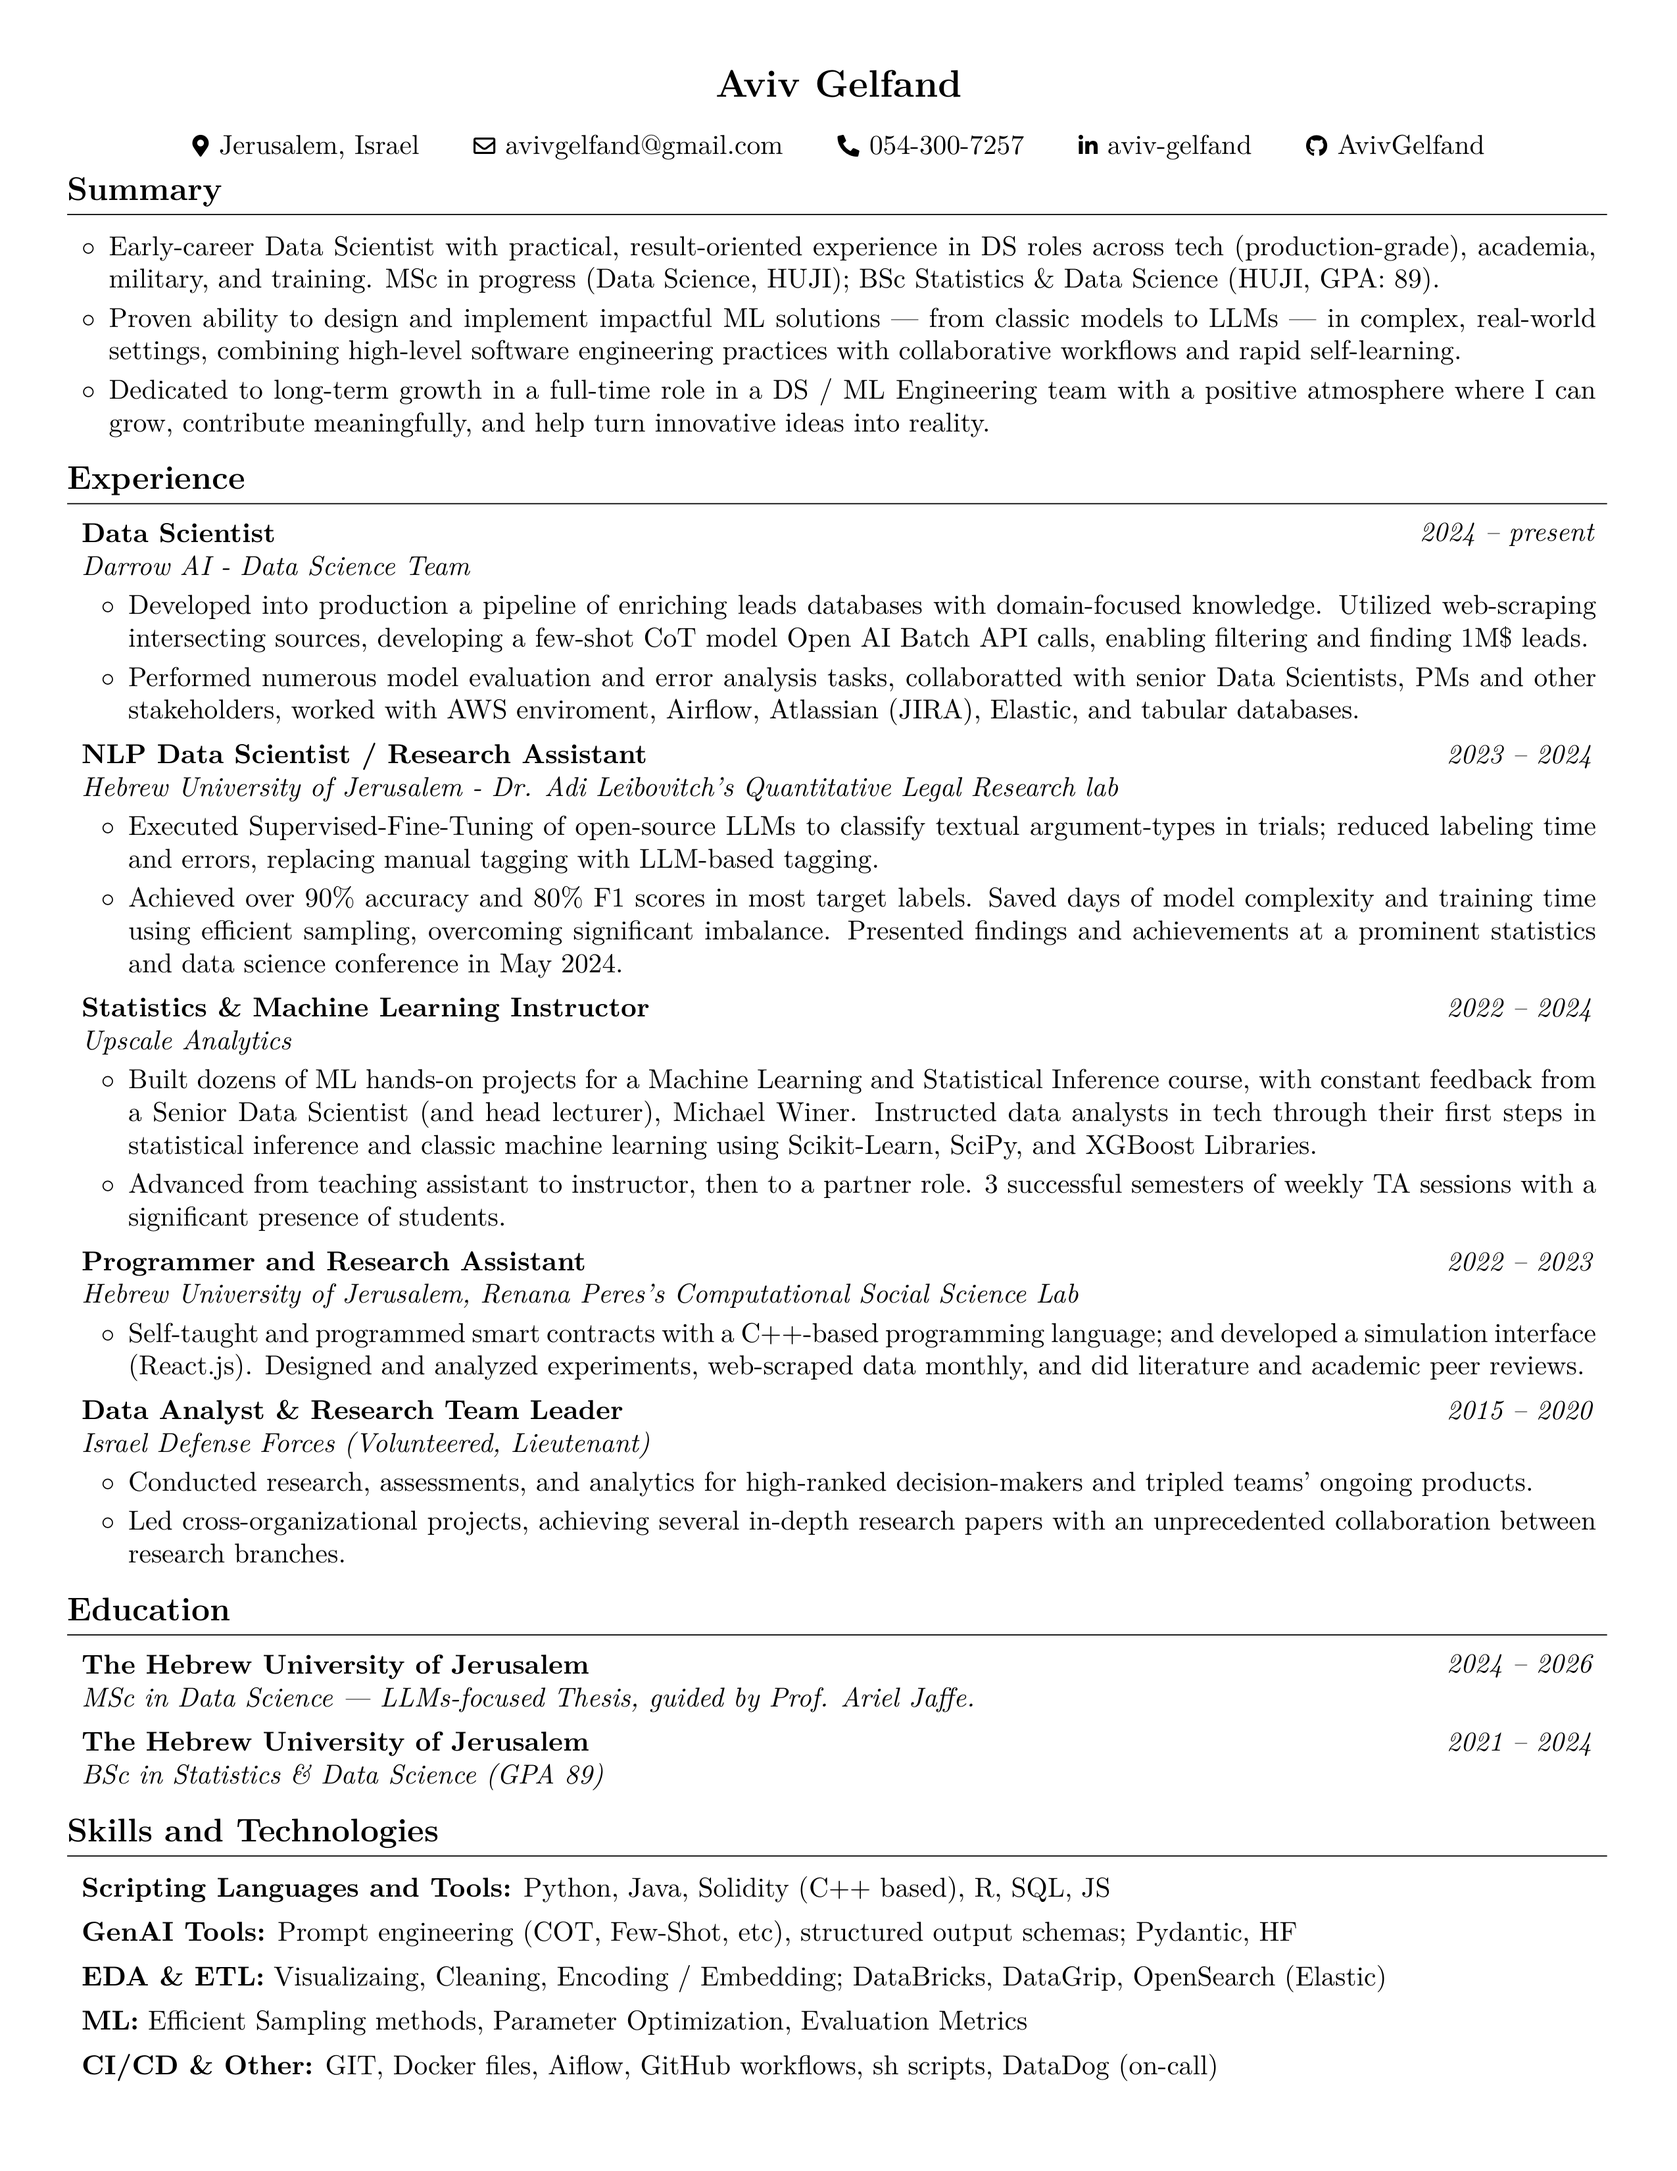
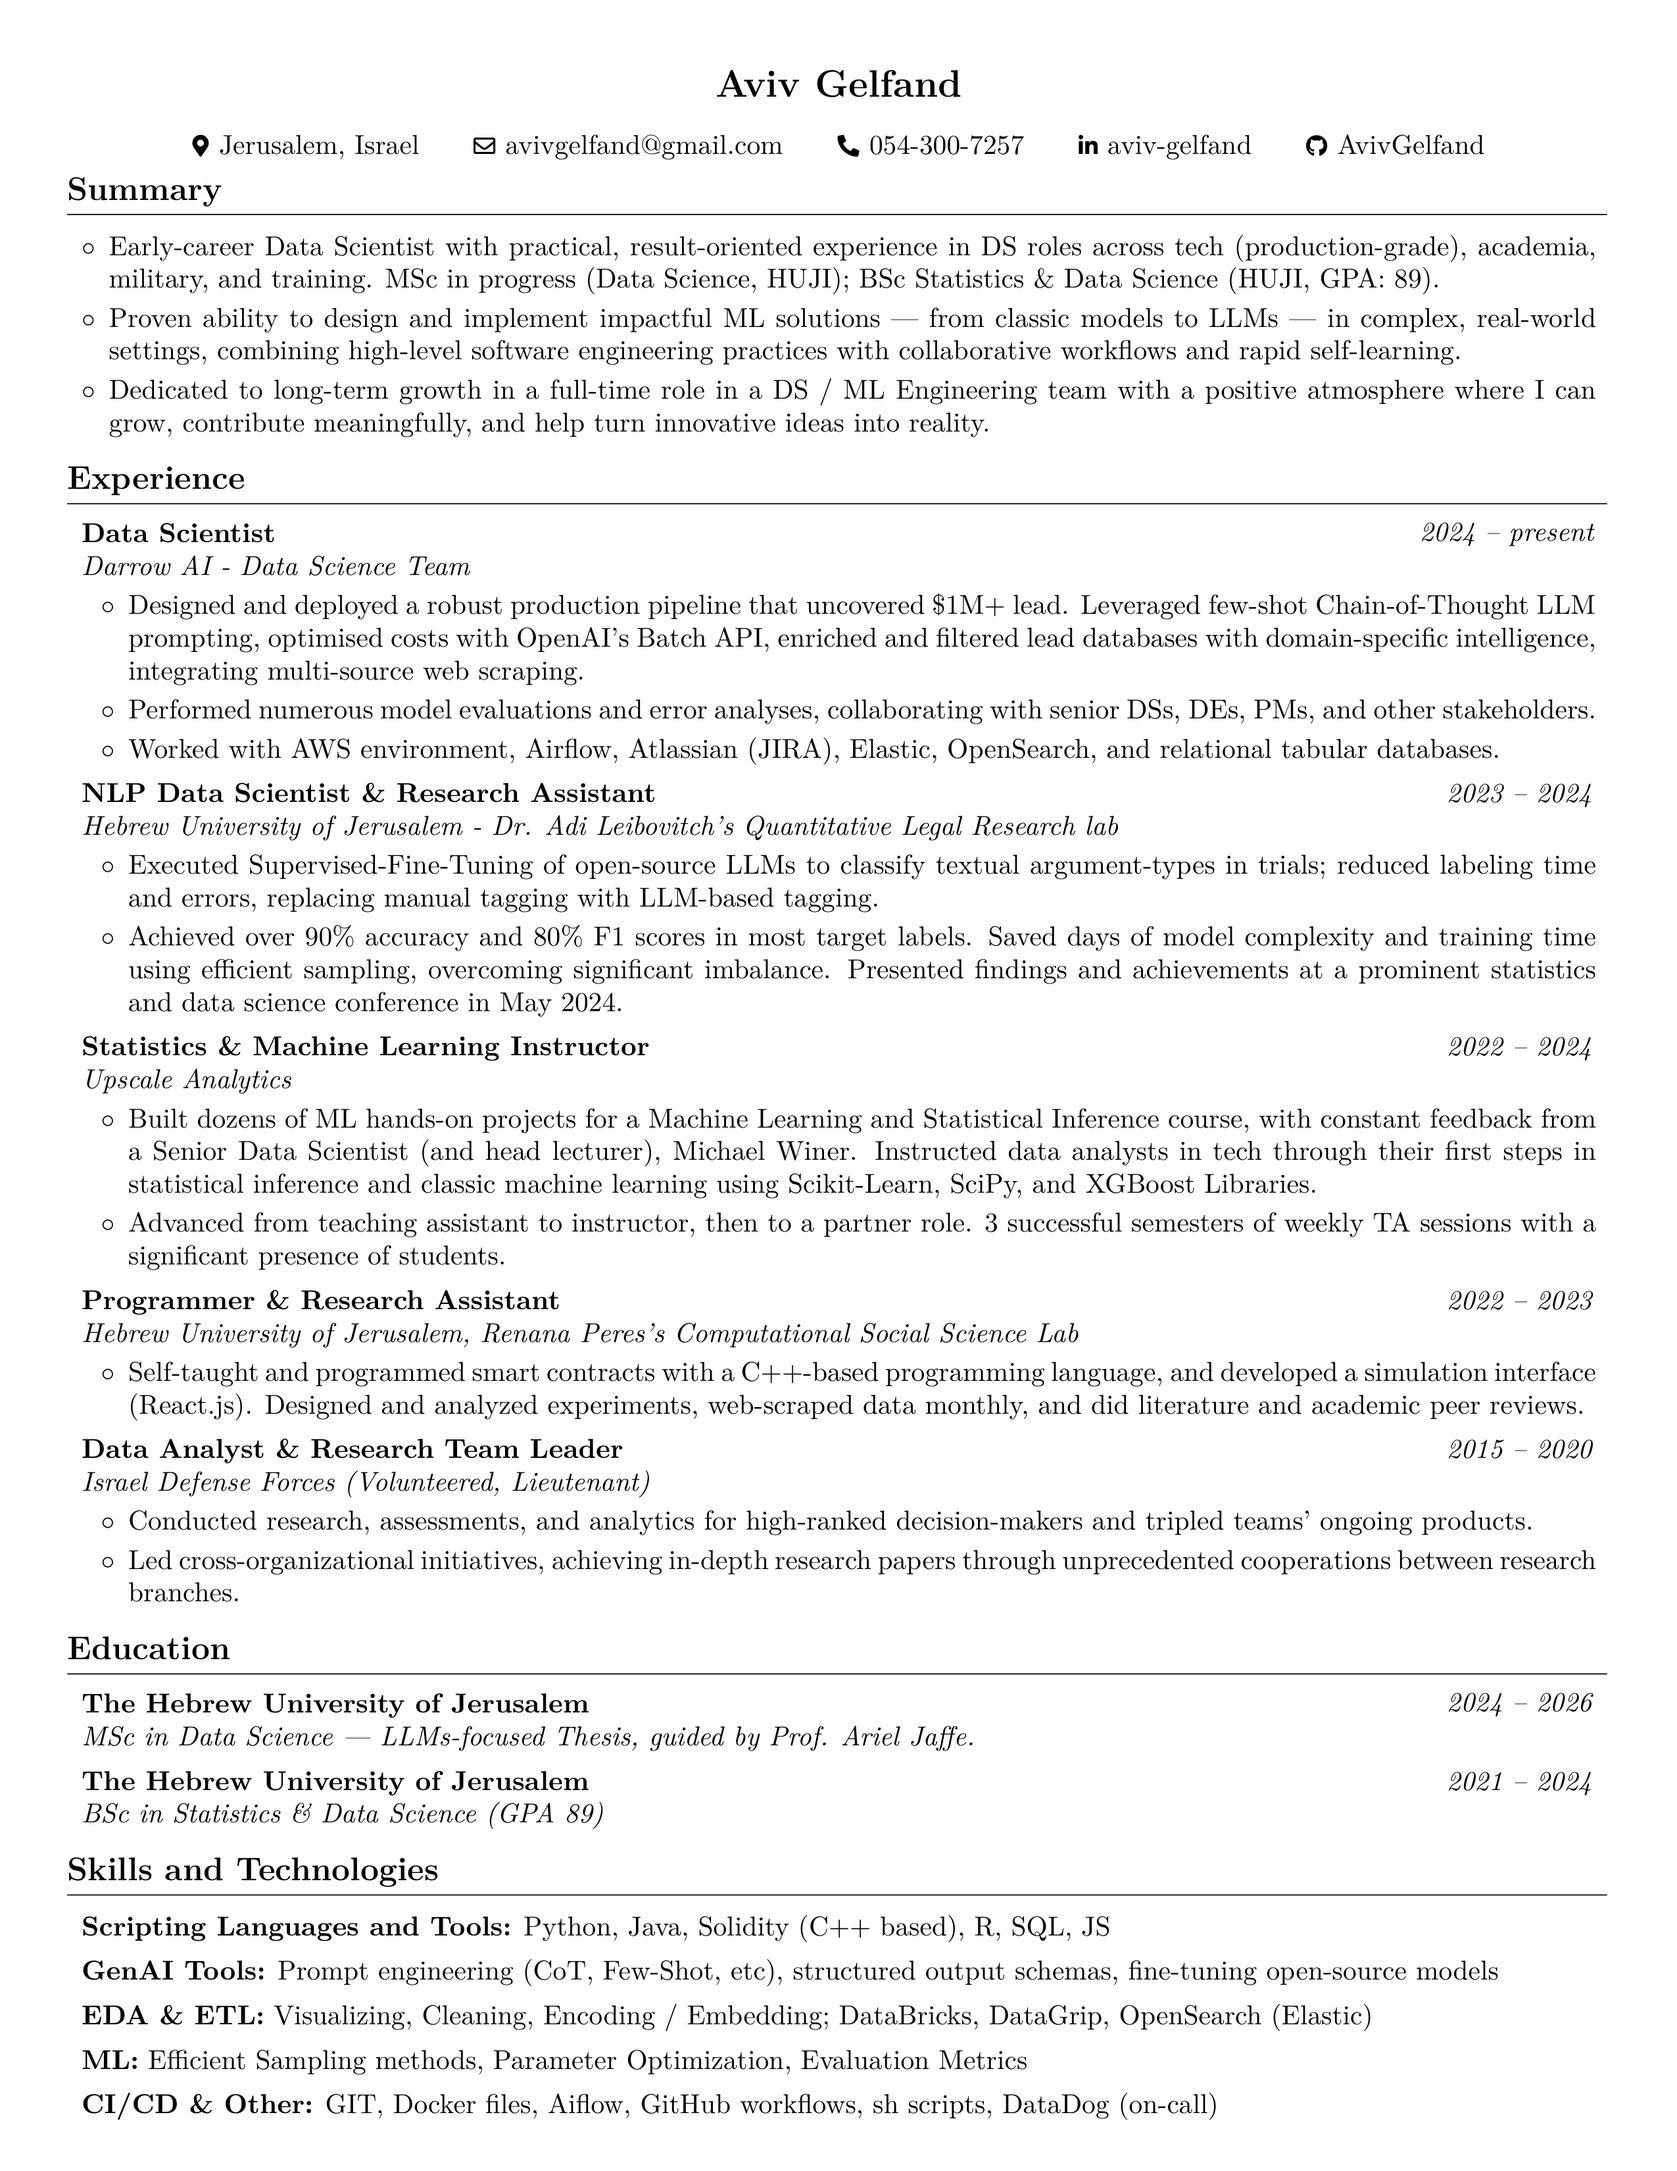
Render the latest CV

Changed region(s): [[0.031, 0.2497, 0.9604, 0.9676], [0.9294, 0.7491, 0.9604, 0.8115], [0.8675, 0.7491, 0.8984, 0.8115]]

diff --git a/Aviv_Gelfand_CV.html b/Aviv_Gelfand_CV.html
@@ -51,10 +51,10 @@
         <ul>
         <li>2024 – present</li>
         <li>Designed and deployed a robust production pipeline that uncovered \$1M+ lead. Leveraged few-shot Chain-of-Thought LLM prompting, optimised costs with OpenAI’s Batch API, enriched and filtered lead databases with domain-specific intelligence, integrating multi-source web scraping.</li>
-        <li>Performed numerous feature developments, model evaluations, and error analysis tasks, collaborated with senior DSs, DEs, PMs, and further stakeholders.</li>
+        <li>Performed numerous model evaluations and error analyses, collaborating with senior DSs, DEs, PMs, and other stakeholders.</li>
         <li>Worked with AWS environment, Airflow, Atlassian (JIRA), Elastic, OpenSearch, and relational tabular databases.</li>
         </ul>
-        <h2>Hebrew University of Jerusalem - Dr. Adi Leibovitch's Quantitative Legal Research lab, NLP Data Scientist / Research Assistant</h2>
+        <h2>Hebrew University of Jerusalem - Dr. Adi Leibovitch's Quantitative Legal Research lab, NLP Data Scientist &amp; Research Assistant</h2>
         <ul>
         <li>2023 – 2024</li>
         <li>Executed Supervised-Fine-Tuning of open-source LLMs to classify textual argument-types in trials; reduced labeling time and errors, replacing manual tagging with LLM-based tagging.</li>
@@ -66,16 +66,16 @@
         <li>Built dozens of ML hands-on projects for a Machine Learning and Statistical Inference course, with constant feedback from a Senior Data Scientist (and head lecturer), Michael Winer. Instructed data analysts in tech through their first steps in statistical inference and classic machine learning using Scikit-Learn, SciPy, and XGBoost Libraries.</li>
         <li>Advanced from teaching assistant to instructor, then to a partner role. 3 successful semesters of weekly TA sessions with a significant presence of students.</li>
         </ul>
-        <h2>Hebrew University of Jerusalem, Renana Peres's Computational Social Science Lab, Programmer and Research Assistant</h2>
+        <h2>Hebrew University of Jerusalem, Renana Peres's Computational Social Science Lab, Programmer &amp; Research Assistant</h2>
         <ul>
         <li>2022 – 2023</li>
-        <li>Self-taught and programmed smart contracts with a C++-based programming language; and developed a simulation interface (React.js). Designed and analyzed experiments, web-scraped data monthly, and did literature and academic peer reviews.</li>
+        <li>Self-taught and programmed smart contracts with a C++-based programming language, and developed a simulation interface (React.js). Designed and analyzed experiments, web-scraped data monthly, and did literature and academic peer reviews.</li>
         </ul>
         <h2>Israel Defense Forces (Volunteered, Lieutenant), Data Analyst &amp; Research Team Leader</h2>
         <ul>
         <li>2015 – 2020</li>
         <li>Conducted research, assessments, and analytics for high-ranked decision-makers and tripled teams' ongoing products.</li>
-        <li>Led cross-organizational initiatives, achieving in-depth research papers through unprecedented collabs between research branches.</li>
+        <li>Led cross-organizational initiatives, achieving in-depth research papers through unprecedented cooperations between research branches.</li>
         </ul>
         <h1>Education</h1>
         <h2>The Hebrew University of Jerusalem, MSc in Data Science | LLMs-focused Thesis, guided by Prof. Ariel Jaffe.</h2>
@@ -89,8 +89,8 @@
         <h1>Skills and Technologies</h1>
         <ul>
         <li>Scripting Languages and Tools: Python, Java, Solidity (C++ based), R, SQL, JS</li>
-        <li>GenAI Tools: Prompt engineering (COT, Few-Shot, etc), structured output schemas; fine-tuning opensource models</li>
-        <li>EDA &amp; ETL: Visualizaing, Cleaning, Encoding / Embedding; DataBricks, DataGrip, OpenSearch (Elastic)</li>
+        <li>GenAI Tools: Prompt engineering (CoT, Few-Shot, etc), structured output schemas, fine-tuning open-source models</li>
+        <li>EDA &amp; ETL: Visualizing, Cleaning, Encoding / Embedding; DataBricks, DataGrip, OpenSearch (Elastic)</li>
         <li>ML: Efficient Sampling methods, Parameter Optimization, Evaluation Metrics</li>
         <li>CI/CD &amp; Other: GIT, Docker files, Aiflow, GitHub workflows, sh scripts, DataDog (on-call)</li>
         </ul>

diff --git a/Aviv_Gelfand_CV.tex b/Aviv_Gelfand_CV.tex
@@ -209,7 +209,7 @@
         \begin{onecolentry}
             \begin{highlights}
                 \item Designed and deployed a robust production pipeline that uncovered \$1M+ lead. Leveraged few-shot Chain-of-Thought LLM prompting, optimised costs with OpenAI’s Batch API, enriched and filtered lead databases with domain-specific intelligence, integrating multi-source web scraping.
-                \item Performed numerous feature developments, model evaluations, and error analysis tasks, collaborated with senior DSs, DEs, PMs, and further stakeholders.
+                \item Performed numerous model evaluations and error analyses, collaborating with senior DSs, DEs, PMs, and other stakeholders.
                 \item Worked with AWS environment, Airflow, Atlassian (JIRA), Elastic, OpenSearch, and relational tabular databases.
             \end{highlights}
         \end{onecolentry}
@@ -221,7 +221,7 @@
             
             
         \textit{2023 – 2024}}
-            \textbf{NLP Data Scientist / Research Assistant}
+            \textbf{NLP Data Scientist \& Research Assistant}
             
             \textit{Hebrew University of Jerusalem - Dr. Adi Leibovitch's Quantitative Legal Research lab}
         \end{twocolentry}
@@ -261,7 +261,7 @@
             
             
         \textit{2022 – 2023}}
-            \textbf{Programmer and Research Assistant}
+            \textbf{Programmer \& Research Assistant}
             
             \textit{Hebrew University of Jerusalem, Renana Peres's Computational Social Science Lab}
         \end{twocolentry}
@@ -269,7 +269,7 @@
         \vspace{0.08 cm}
         \begin{onecolentry}
             \begin{highlights}
-                \item Self-taught and programmed smart contracts with a C++-based programming language; and developed a simulation interface (React.js). Designed and analyzed experiments, web-scraped data monthly, and did literature and academic peer reviews.
+                \item Self-taught and programmed smart contracts with a C++-based programming language, and developed a simulation interface (React.js). Designed and analyzed experiments, web-scraped data monthly, and did literature and academic peer reviews.
             \end{highlights}
         \end{onecolentry}
 
@@ -289,7 +289,7 @@
         \begin{onecolentry}
             \begin{highlights}
                 \item Conducted research, assessments, and analytics for high-ranked decision-makers and tripled teams' ongoing products.
-                \item Led cross-organizational initiatives, achieving in-depth research papers through unprecedented collabs between research branches.
+                \item Led cross-organizational initiatives, achieving in-depth research papers through unprecedented cooperations between research branches.
             \end{highlights}
         \end{onecolentry}
 
@@ -339,13 +339,13 @@
         \vspace{0.15 cm}
 
         \begin{onecolentry}
-            \textbf{GenAI Tools:} Prompt engineering (COT, Few-Shot, etc), structured output schemas; fine-tuning opensource models
+            \textbf{GenAI Tools:} Prompt engineering (CoT, Few-Shot, etc), structured output schemas, fine-tuning open-source models
         \end{onecolentry}
 
         \vspace{0.15 cm}
 
         \begin{onecolentry}
-            \textbf{EDA \& ETL:} Visualizaing, Cleaning, Encoding / Embedding; DataBricks, DataGrip, OpenSearch (Elastic)
+            \textbf{EDA \& ETL:} Visualizing, Cleaning, Encoding / Embedding; DataBricks, DataGrip, OpenSearch (Elastic)
         \end{onecolentry}
 
         \vspace{0.15 cm}

diff --git a/README.md b/README.md
@@ -20,10 +20,10 @@
 
 - 2024 – present
 - Designed and deployed a robust production pipeline that uncovered \$1M+ lead. Leveraged few-shot Chain-of-Thought LLM prompting, optimised costs with OpenAI’s Batch API, enriched and filtered lead databases with domain-specific intelligence, integrating multi-source web scraping.
-- Performed numerous feature developments, model evaluations, and error analysis tasks, collaborated with senior DSs, DEs, PMs, and further stakeholders.
+- Performed numerous model evaluations and error analyses, collaborating with senior DSs, DEs, PMs, and other stakeholders.
 - Worked with AWS environment, Airflow, Atlassian (JIRA), Elastic, OpenSearch, and relational tabular databases.
 
-## Hebrew University of Jerusalem - Dr. Adi Leibovitch's Quantitative Legal Research lab, NLP Data Scientist / Research Assistant
+## Hebrew University of Jerusalem - Dr. Adi Leibovitch's Quantitative Legal Research lab, NLP Data Scientist & Research Assistant
 
 - 2023 – 2024
 - Executed Supervised-Fine-Tuning of open-source LLMs to classify textual argument-types in trials; reduced labeling time and errors, replacing manual tagging with LLM-based tagging.
@@ -35,16 +35,16 @@
 - Built dozens of ML hands-on projects for a Machine Learning and Statistical Inference course, with constant feedback from a Senior Data Scientist (and head lecturer), Michael Winer. Instructed data analysts in tech through their first steps in statistical inference and classic machine learning using Scikit-Learn, SciPy, and XGBoost Libraries.
 - Advanced from teaching assistant to instructor, then to a partner role. 3 successful semesters of weekly TA sessions with a significant presence of students.
 
-## Hebrew University of Jerusalem, Renana Peres's Computational Social Science Lab, Programmer and Research Assistant
+## Hebrew University of Jerusalem, Renana Peres's Computational Social Science Lab, Programmer & Research Assistant
 
 - 2022 – 2023
-- Self-taught and programmed smart contracts with a C++-based programming language; and developed a simulation interface (React.js). Designed and analyzed experiments, web-scraped data monthly, and did literature and academic peer reviews.
+- Self-taught and programmed smart contracts with a C++-based programming language, and developed a simulation interface (React.js). Designed and analyzed experiments, web-scraped data monthly, and did literature and academic peer reviews.
 
 ## Israel Defense Forces (Volunteered, Lieutenant), Data Analyst & Research Team Leader
 
 - 2015 – 2020
 - Conducted research, assessments, and analytics for high-ranked decision-makers and tripled teams' ongoing products.
-- Led cross-organizational initiatives, achieving in-depth research papers through unprecedented collabs between research branches.
+- Led cross-organizational initiatives, achieving in-depth research papers through unprecedented cooperations between research branches.
 
 # Education
 
@@ -59,7 +59,7 @@
 # Skills and Technologies
 
 - Scripting Languages and Tools: Python, Java, Solidity (C++ based), R, SQL, JS
-- GenAI Tools: Prompt engineering (COT, Few-Shot, etc), structured output schemas; fine-tuning opensource models
-- EDA & ETL: Visualizaing, Cleaning, Encoding / Embedding; DataBricks, DataGrip, OpenSearch (Elastic)
+- GenAI Tools: Prompt engineering (CoT, Few-Shot, etc), structured output schemas, fine-tuning open-source models
+- EDA & ETL: Visualizing, Cleaning, Encoding / Embedding; DataBricks, DataGrip, OpenSearch (Elastic)
 - ML: Efficient Sampling methods, Parameter Optimization, Evaluation Metrics
 - CI/CD & Other: GIT, Docker files, Aiflow, GitHub workflows, sh scripts, DataDog (on-call)
